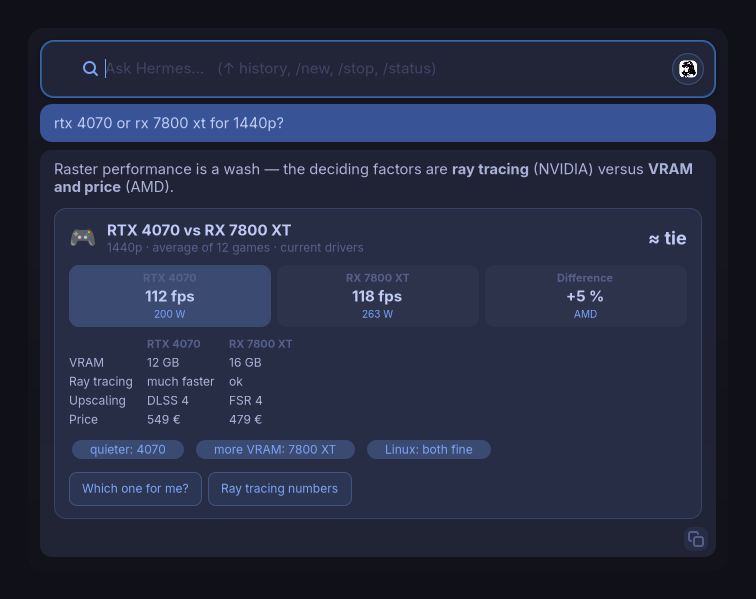
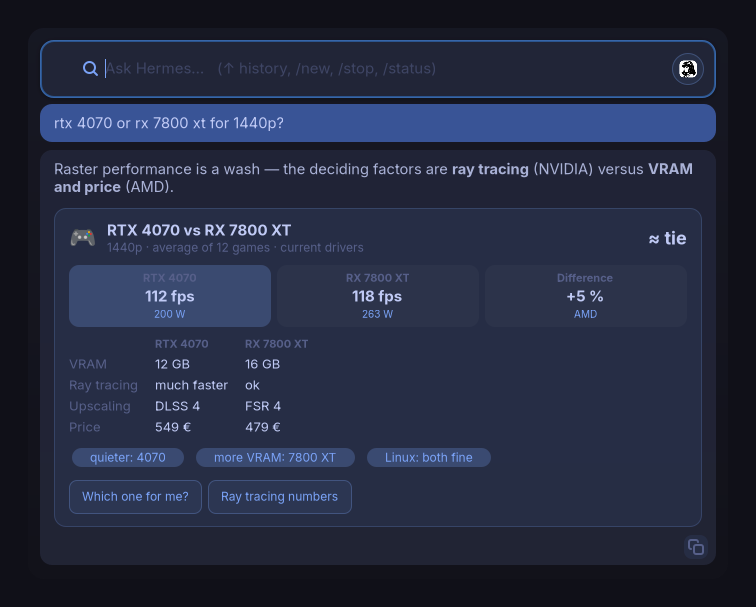
style: table cards — row-label column dimmed, larger cells
An empty first column header marks the first column as row labels.

diff --git a/hermes-spotlight.py b/hermes-spotlight.py
@@ -755,6 +755,8 @@ label link:hover {{ text-decoration: underline; }}
 .pkgtime {{ color: {t['placeholder']}; font-family: monospace;
            font-size: 11px; min-width: 90px; }}
 .cardvalue {{ color: {t['text']}; font-weight: bold; font-size: 18px; }}
+.tablecell {{ color: {t['text']}; font-size: 13px; }}
+.tablekey {{ color: {t['placeholder']}; font-size: 13px; }}
 .statvalue {{ color: {t['text']}; font-weight: bold; font-size: 15px; }}
 .cardchip {{ color: {t['accent']}; background: {t['accent_bg_hover']};
             border-radius: 999px; padding: 2px 10px; font-size: 12px; }}
@@ -1300,12 +1302,15 @@ def _blk_kv(b, theme):
 def _blk_table(b, theme):
     cols = [_s(c, 30) for c in (b.get("columns") or [])][:6]
     rows = [r for r in (b.get("rows") or []) if isinstance(r, list)][:10]
-    grid = Gtk.Grid(column_spacing=14, row_spacing=4)
+    grid = Gtk.Grid(column_spacing=16, row_spacing=5)
+    # an empty first header means the first column labels the rows
+    row_labels = bool(cols) and not cols[0].strip()
     for j, c in enumerate(cols):
         grid.attach(_lbl(c, "dayname", xalign=0), j, 0, 1, 1)
     for i, r in enumerate(rows, start=1):
         for j, cell in enumerate(r[:max(1, len(cols)) if cols else 6]):
-            grid.attach(_lbl(_s(cell, 80), "statusval", xalign=0, wrap=True,
+            css = "tablekey" if row_labels and j == 0 else "tablecell"
+            grid.attach(_lbl(_s(cell, 80), css, xalign=0, wrap=True,
                              selectable=True), j, i, 1, 1)
     return grid
 

diff --git a/tests/ui_features.py b/tests/ui_features.py
@@ -383,6 +383,12 @@ def steps(win, app):
         while c is not None: walkb(c); c = c.get_next_sibling()
     walkb(bc)
     ok([b.get_label() for b in btns] == ["Details", "Shop"], "only ask/https buttons are created")
+    tb = m._blk_table({"columns": ["", "A"], "rows": [["Boost", "5 GHz"]]}, win.theme)
+    cells = [tb.get_child_at(0, 1), tb.get_child_at(1, 1)]
+    ok(cells[0].has_css_class("tablekey") and cells[1].has_css_class("tablecell"),
+       "empty first header -> first column styled as row labels")
+    tb2 = m._blk_table({"columns": ["Name", "A"], "rows": [["x", "y"]]}, win.theme)
+    ok(tb2.get_child_at(0, 1).has_css_class("tablecell"), "named first column stays a normal cell")
     ok(m._card_widget('{"type": "blocks", "blocks": [{"kind": "x"}]}') is None,
        "a blocks card with nothing valid is dropped")
     ok("\"type\": \"blocks\"" in m.CARD_PROMPT, "blueprint is part of the card prompt")
